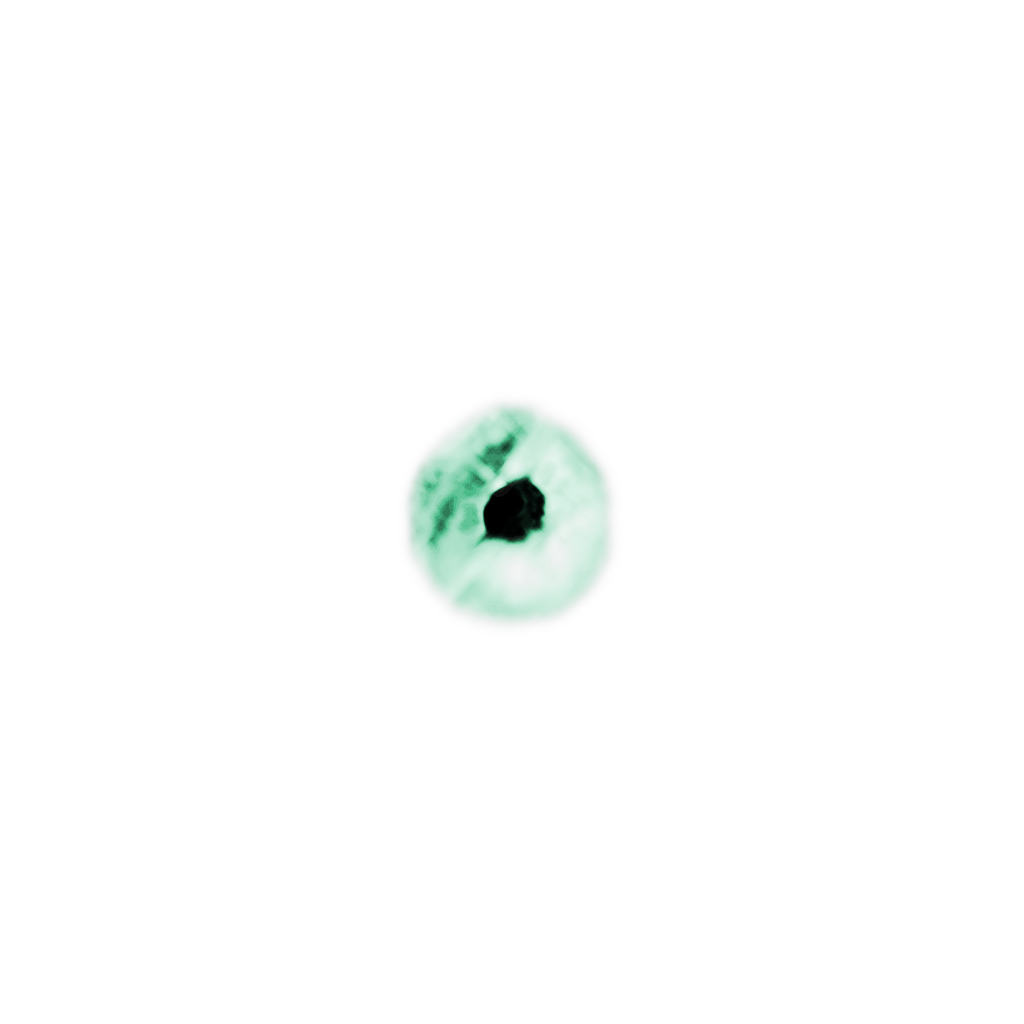
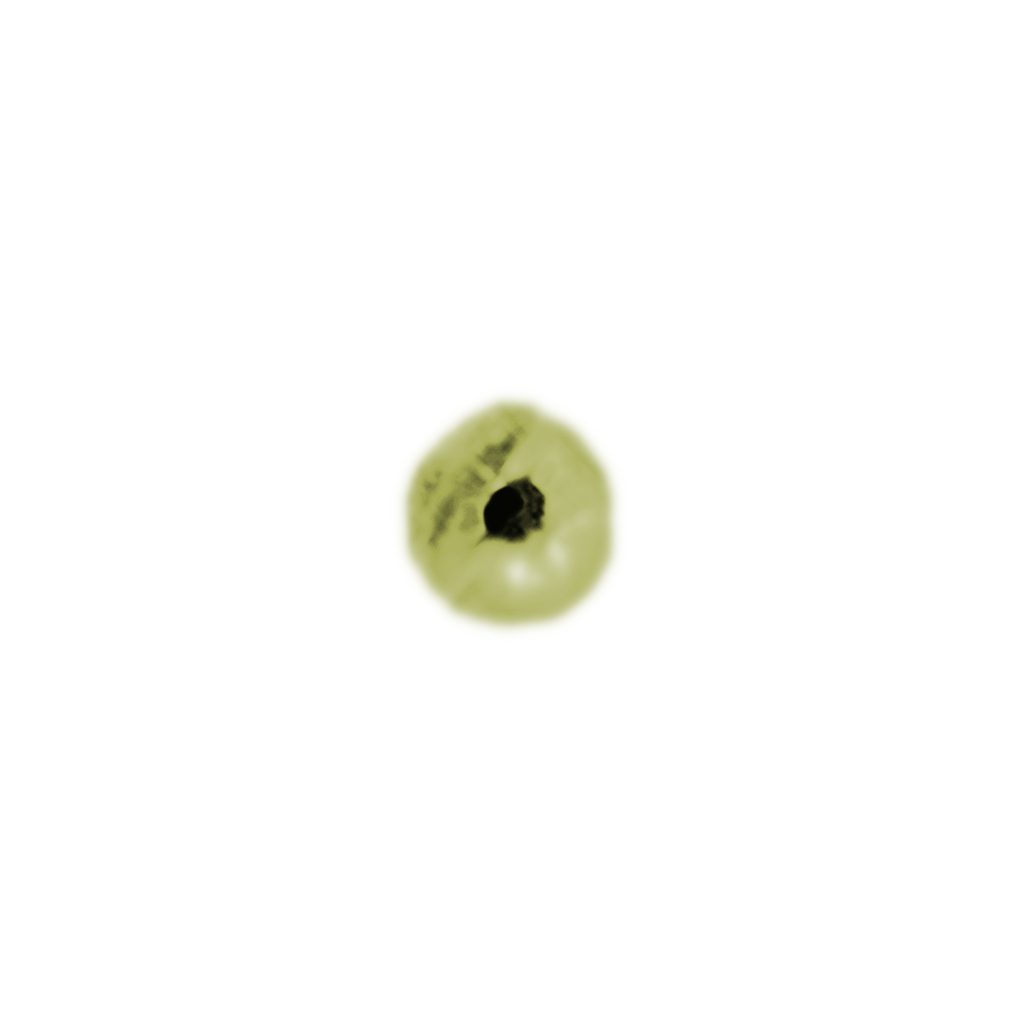
Mammoth initialize

Changed region(s): [[0.375, 0.375, 0.625, 0.625]]

diff --git a/texture_generator.py b/texture_generator.py
@@ -4,6 +4,10 @@ import argparse
 import cv2
 import numpy as np
 from PIL import Image, ImageFilter, ImageOps
+from mtcnn.mtcnn import MTCNN
+
+detector = MTCNN()
+
 
 # to detect the eyes
 eyes = cv2.CascadeClassifier("eye2.xml")
@@ -31,7 +35,7 @@ def imageOpen(name):
 
 
 parser = argparse.ArgumentParser()
-parser.add_argument('--input_path', default='sample/sample3.png',
+parser.add_argument('--input_path', default='sample/sample5.png',
                     help="face face_image")
 parser.add_argument('--input_path_uv', default='sample/sample3-uv.png',
                     help="uv map created from face_image")
@@ -40,44 +44,25 @@ parser.add_argument('--out_dir', default='out/',
 opt = parser.parse_args()
 
 # define HSV color ranges for eyes colors
-class_name = ("Red", "Blue", "Blue Gray", "Brown", "Brown Gray",
-              "Brown Black", "Green", "Other")
+class_name = ("Blue", "Blue Gray", "Brown", "Brown Gray",
+              "Brown Black", "Green", "Green Gray" ,"Other")
 EyeColor = {
-    class_name[0]: ((0, 0, 0), (1, 1, 1)),
-    class_name[1]: ((156, 21, 50), (240, 100, 85)),
-    class_name[2]: ((156, 2, 25), (300, 20, 75)),
-    class_name[3]: ((2, 20, 20), (40, 100, 60)),
-    class_name[4]: ((20, 3, 30), (65, 60, 60)),
-    class_name[5]: ((0, 10, 5), (40, 40, 25)),
-    class_name[6]: ((60, 21, 50), (155, 100, 85))
+    class_name[0]: ((156, 21, 50), (240, 100, 85)),
+    class_name[1]: ((146, 2, 25), (300, 20, 75)),
+    class_name[2]: ((2, 20, 20), (40, 100, 60)),
+    class_name[3]: ((20, 3, 30), (65, 60, 60)),
+    class_name[4]: ((0, 10, 5), (40, 40, 25)),
+    class_name[5]: ((50, 21, 50), (155, 100, 85)),
+    class_name[6]: ((50, 2, 25), (145, 20, 65))
+    
 }
-
-EyeColor2 = {
-    class_name[0]: [[0, 0, 0], [1, 1, 1]],
-    class_name[1]: [[156, 21, 50], [240, 100, 85]],
-    class_name[2]: [[156, 2, 25], [300, 20, 75]],
-    class_name[3]: [[2, 20, 20], [40, 100, 60]],
-    class_name[4]: [[20, 3, 30], [65, 60, 60]],
-    class_name[5]: [[0, 10, 5], [40, 40, 25]],
-    class_name[6]: [[60, 21, 50], [155, 100, 85]]
-}
-
-
-def convert_hsv_to_percent(color):
-    cvH = color[0]
-    cvS = (color[1] * 255) / 100
-    cvV = (color[2] * 255) / 100
-    return cvH, cvS, cvV
 
 
 def check_color(hsv_input, color):
-    hsv = convert_hsv_to_percent(hsv_input)
-    # hsv = hsv_input
+    hsv = hsv_input
     if (hsv[0] >= color[0][0]) and (hsv[0] <= color[1][0]) and \
             (hsv[1] >= color[0][1]) and (hsv[1] <= color[1][1]) and \
             (hsv[2] >= color[0][2]) and (hsv[2] <= color[1][2]):
-
-        print(f"{hsv} in -> {color}")
         return True
     else:
         return False
@@ -88,74 +73,27 @@ def check_color(hsv_input, color):
 
 def find_class(hsv):
     color_id = 7
-    for i in range(len(class_name) - 1):
-        if check_color(hsv, EyeColor[class_name[i]]):
+    for i in range(len(class_name)-1):
+        if check_color(hsv, EyeColor[class_name[i]]) == True:
             color_id = i
-            return color_id
 
     return color_id
 
 
 def find_eye_position(face_image):
-    gray_frame = cv2.cvtColor(face_image, cv2.COLOR_BGR2GRAY)
+    imgHSV = cv2.cvtColor(image, cv2.COLOR_BGR2HSV)
+    h, w = image.shape[0:2]
+    imgMask = np.zeros((image.shape[0], image.shape[1], 1))
 
-    face = faces.detectMultiScale(gray_frame, 1.3, 5)
-
-    left_eye = (92, 62)
-    # right_eye = (169, 63)
-
-    index = 0
-    scalar = 6
-    # now getting into the face and its position
-    for (x, y, w, h) in face:
-
-        while index == 0:
-            print(f"x: {x}, {y}")
-            # drawing the rectangle on the face
-            cv2.rectangle(face_image, (x, y), (x + w, y + h),
-                          (0, 0, 255), thickness=4)
-
-            # now the eyes are on the face
-            # so we have to make the face frame gray
-            gray_face = gray_frame[y:y + h, x:x + w]
-
-            # make the color face also
-            color_face = face_image[y:y + h, x:x + w]
-
-            # check the eyes on this face
-            eye = eyes.detectMultiScale(gray_face, 1.3, scalar)
-
-            if len(eye) == 0:
-                raise Exception("The eye was NOT found!")
-
-            # get into the eyes with its position
-            for (a, b, c, d) in eye:
-                # we have to draw the rectangle on the
-                # coloured face
-                cv2.rectangle(face_image, (x + a, y + b), ((x + a + c), (y + b + d)),
-                              (0, 255, 0), thickness=4)
-
-                if index == 0:
-                    left_eye = (int(x + a + c / 2), int(y + b + d / 2) + 30)
-                # else:
-                # right_eye = (int(x+a + c/2), int(y+b + d/2)+20)
-
-                print(left_eye)
-                # print(right_eye)
-                print(f"--{a} {b} {a + c} {b + d}")
-
-                index += 1
-
-                # if(index == 2):
-                #     break
-
-            scalar -= 1
-
-        cv2.imwrite('sample/color_face.jpg', color_face)
-
-        return left_eye
-    else:
+    result = detector.detect_faces(image)
+    if result == []:
         raise Exception("The face was NOT found!")
+        return
+
+    bounding_box = result[0]['box']
+    left_eye = result[0]['keypoints']['left_eye']
+    right_eye = result[0]['keypoints']['right_eye']
+    return(left_eye)
 
 
 def eye_color(image):
@@ -183,7 +121,7 @@ def eye_color(image):
     eye_class = np.zeros(len(class_name), np.float)
 
 
-### version 1
+# version 1
     # kernal = np.ones((5, 5), "uint8")
 
     # for i in range(len(class_name) - 1):
@@ -213,20 +151,18 @@ def eye_color(image):
     #     cv2.imshow("Multiple Color Detection in Real-TIme", imgcopy)
     #     cv2.waitKey(0)
 
-
-    ### Version 2
+    # Version 2
     # clasify each pixel with mask where is eye
     firstpoint = 0
     for y in range(0, h):
         for x in range(0, w):
             if imgMask[y, x] != 0:
-                ## debug %12 point
-                if firstpoint % 12 == 0:
+                # debug %12 point
+                if firstpoint % 8 == 0:
                     print(
                         f"RGB{imgHSV[y, x]} - {class_name[find_class(imgHSV[y, x])]}")
                 firstpoint += 1
                 eye_class[find_class(imgHSV[y, x])] += 1
-
 
     cv2.imwrite('sample/hsv-eye.jpg', imgHSV)
     cv2.imwrite('sample/mask.jpg', imgMask)
@@ -239,7 +175,6 @@ def eye_color(image):
     print("\n **Eyes Color Percentage **")
     for i in range(len(class_name)):
         print(class_name[i], ": ", round(eye_class[i] / total_vote, 2))
-
 
     # open all images
     eyes_images = []
